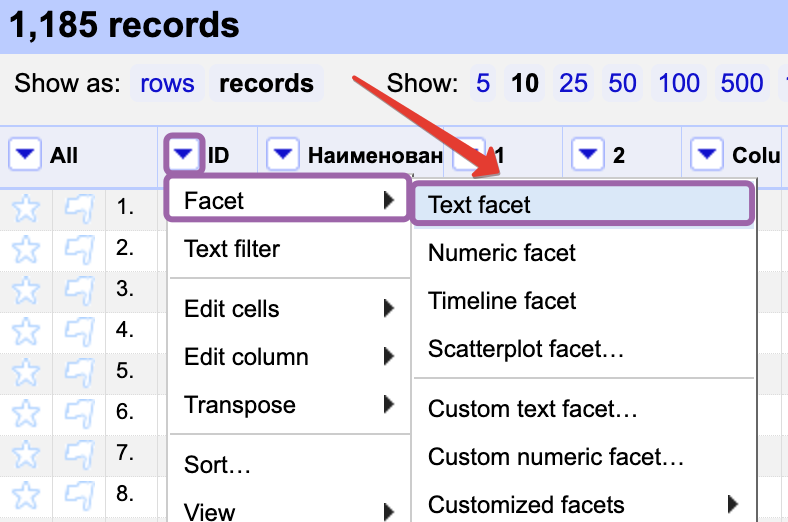
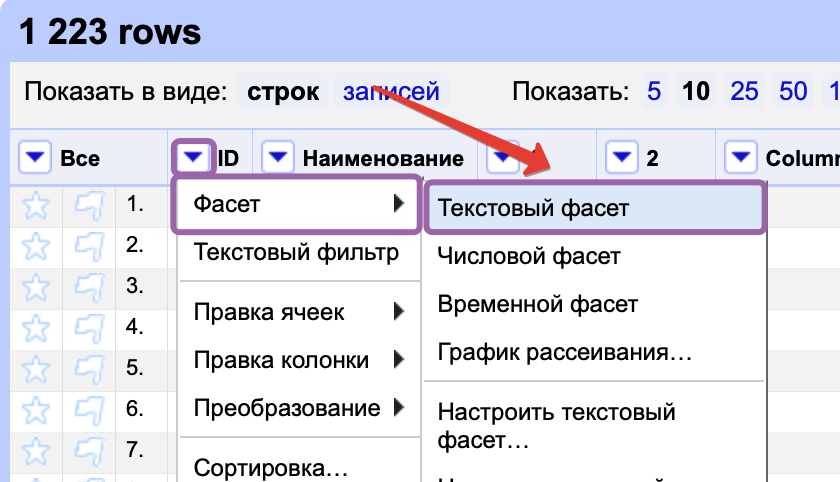
fix(excel_import): russian language

diff --git a/README.md b/README.md
@@ -39,7 +39,7 @@ curl -L -o "План продаж.xlsx" \
 
 Можно по разному избавиться от группировок, но самый простой способ от убрать строки в которых нет id:
 
-- Выбираем ID > Facet > Text facet
+- Выбираем ID > Фасет > Текстовый фасет
 ![img](img/id_filter_text_facet.png)
 
 - Фильтруем по (blank)
